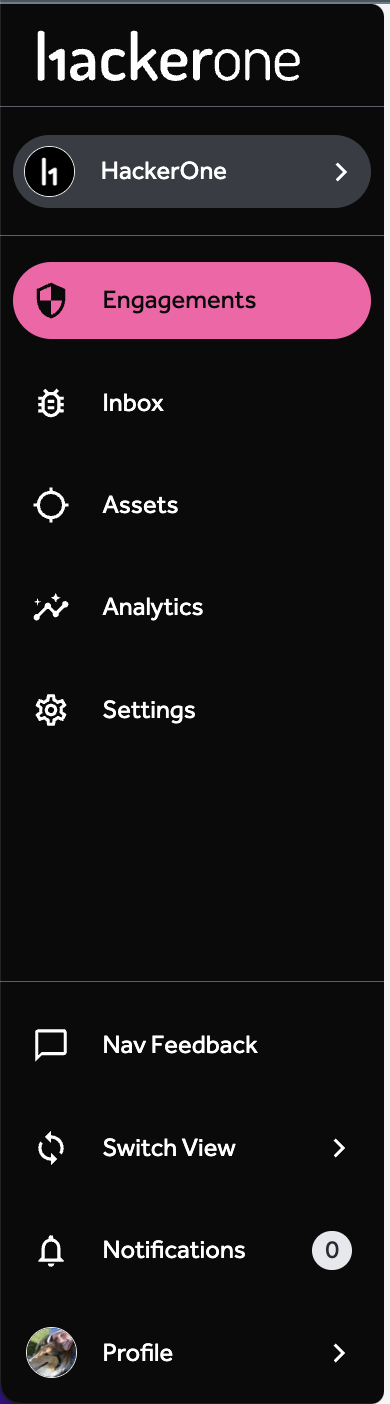
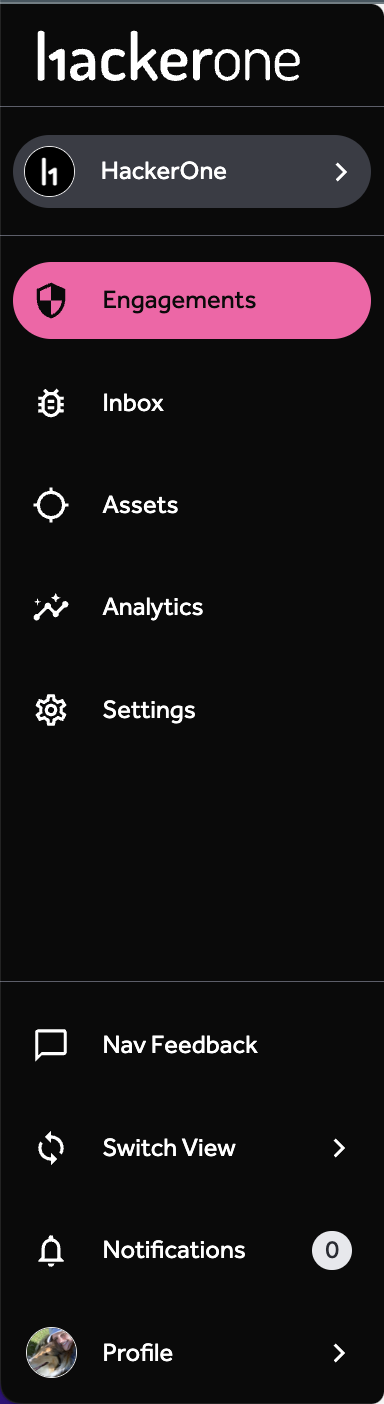
resizing image
attempting anyway

diff --git a/docs/organizations/navigation.md b/docs/organizations/navigation.md
@@ -3,7 +3,8 @@ title: "Navigation"
 path: "/organizations/navigation.html"
 id: "organizations/navigation"
 ---
-![navigation overview](./images/vertical-navigation.png)
+
+<img src="/images/vertical-navigation.png" width="48">
 
 Starting point: Engagements Page
 
